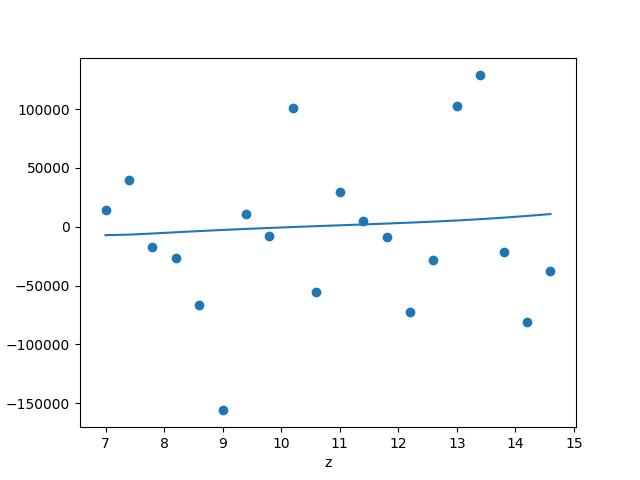
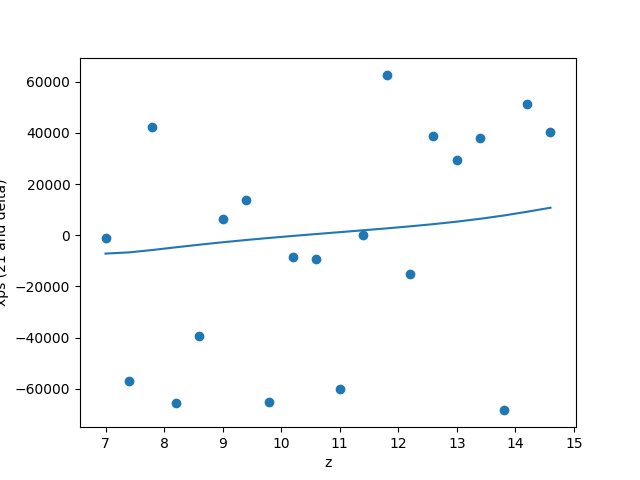
Change to 25% for mcmc

diff --git a/plots/mcmc_logistic/test.py b/plots/mcmc_logistic/test.py
@@ -39,7 +39,7 @@ fn_xps = interp2d(zlist, klist, np.transpose(xps))
 
 zlist = np.arange(zmin, zmax, 0.4)
 truth = fn_xps(zlist, 0.1)
-data = np.random.normal(loc=truth, scale=5*np.abs(truth[-1]))
+data = np.random.normal(loc=truth, scale=4*np.abs(truth[-1]))
 
 sigma = 5 * np.abs(truth[-1])
 sigma = np.full(len(truth), sigma)
